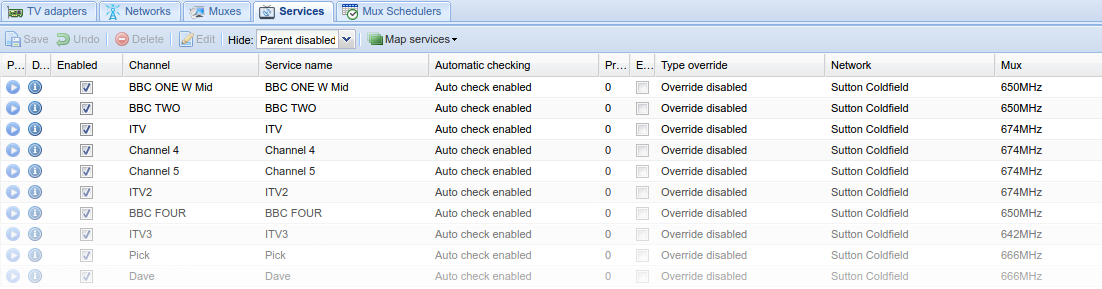
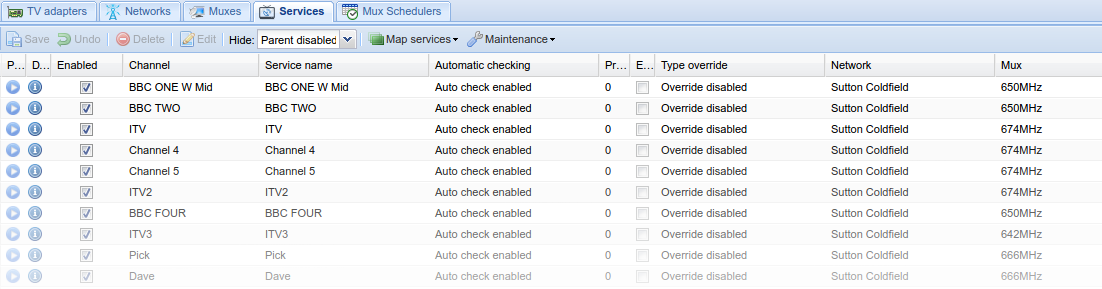
mdhelp: add maintenance table & update main screenshot

Changed region(s): [[0.0, 0.0934, 0.4936, 0.1557]]

diff --git a/docs/class/mpegts_service.md b/docs/class/mpegts_service.md
@@ -12,12 +12,18 @@ The following tab specific buttons are available:
 
 Button                     | Function
 ---------------------------|---------
-**Map Services**           | Drop down menu (see mapping button table below). 
+**Map Services**           | Drop-down menu (see *Map Services* button table below). 
+**Maintenance**            | Drop-down menu (see *Maintenance* button table below).
 
-Mapping Button              | Function
+Map Services Button         | Function
 ----------------------------|--------------------
 **Map selected services**   | Map the highlighted services within the grid. 
 **Map all services**        | Map all available services as channels. 
+
+Maintenance Button                              | Function 
+------------------------------------------------|-------------------
+**Remove unseen services (PAT/SDT) (7 days+)**  | Remove services marked as *Missing in PAT/SDT* for 7+ days. 
+**Remove all unseen services**                  | Remove all services not seen for 7+ days. 
 
 ---
 
